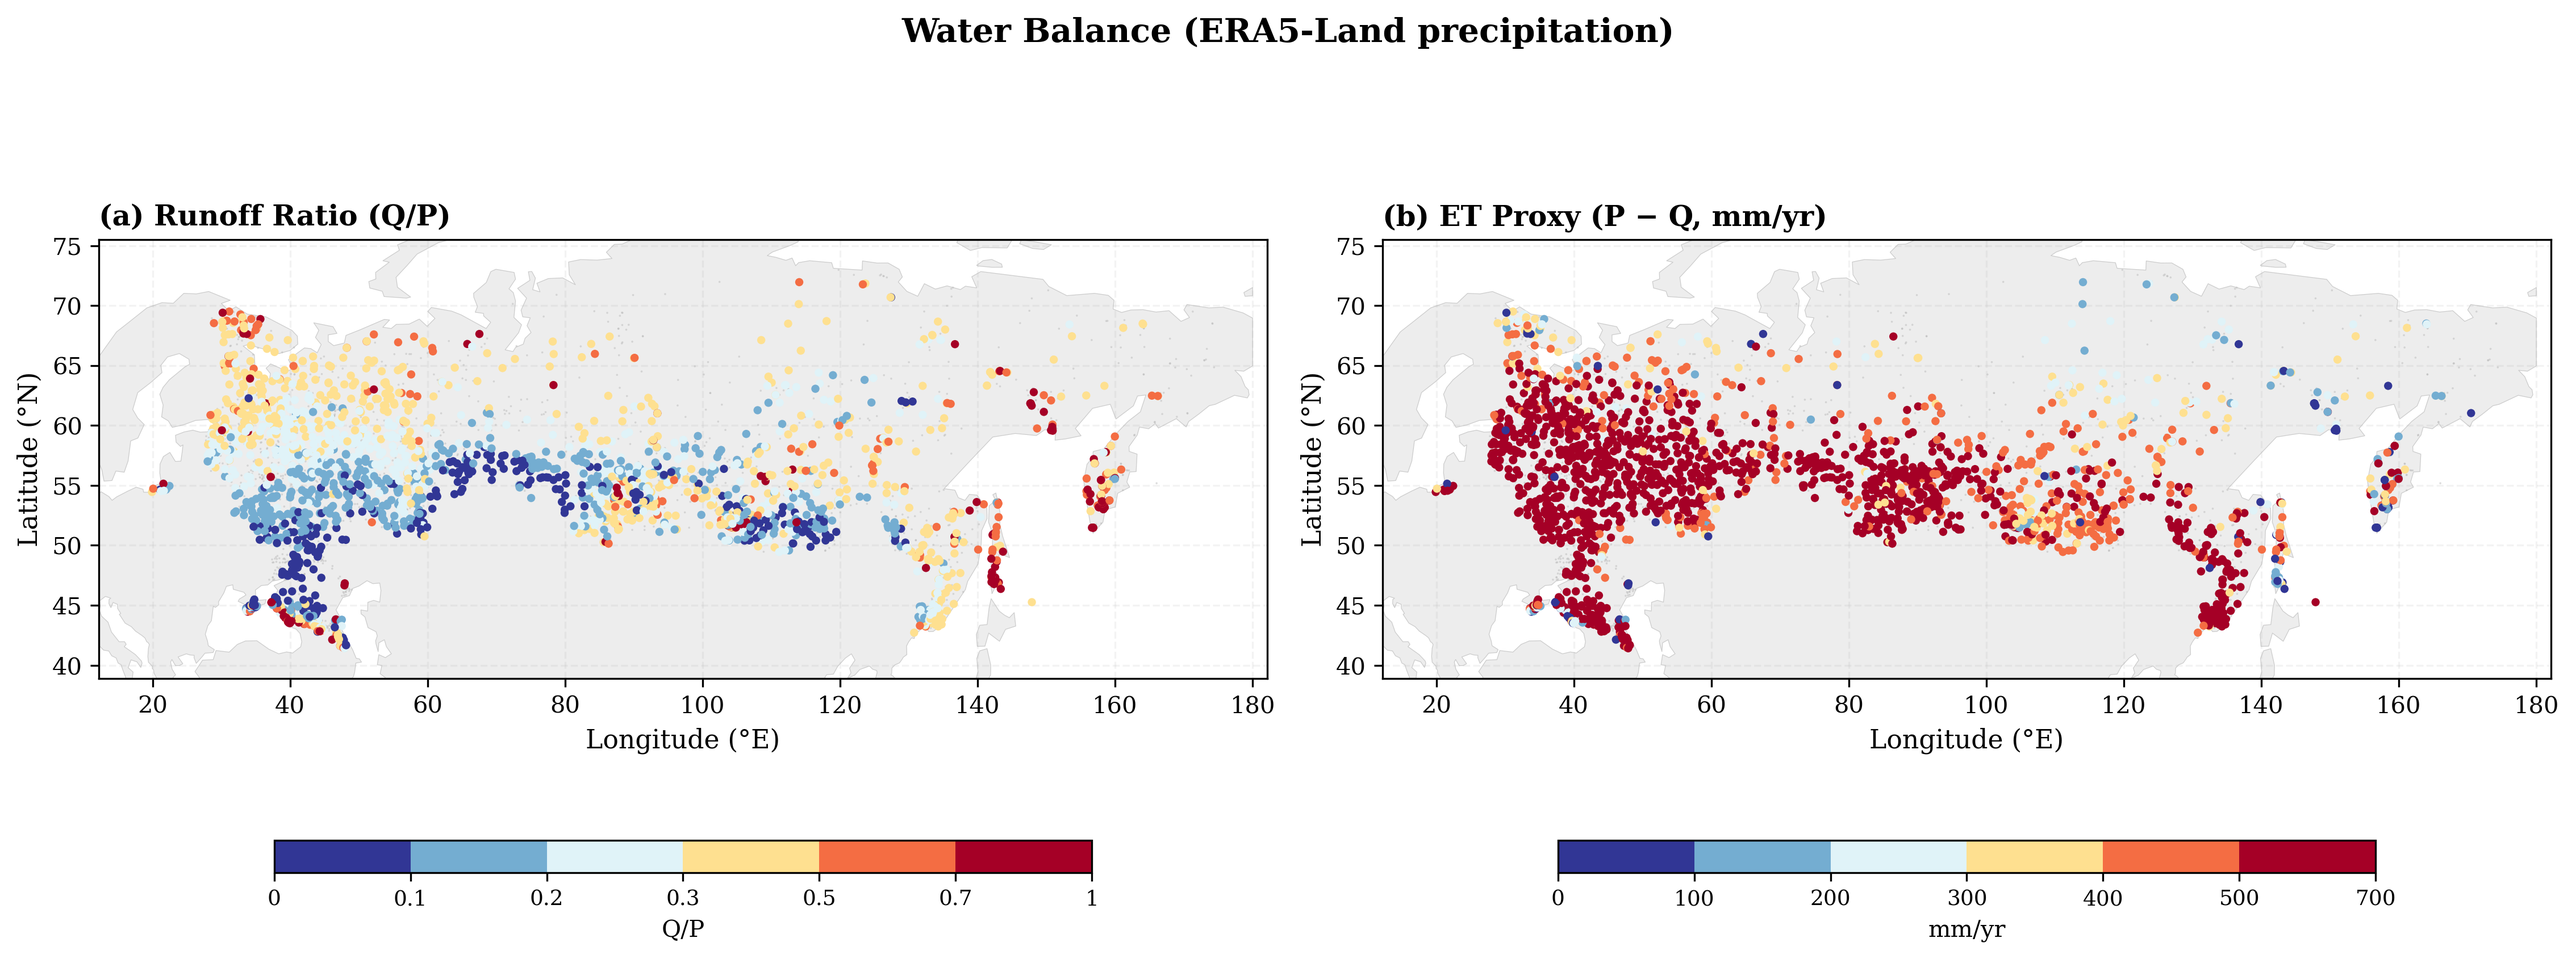
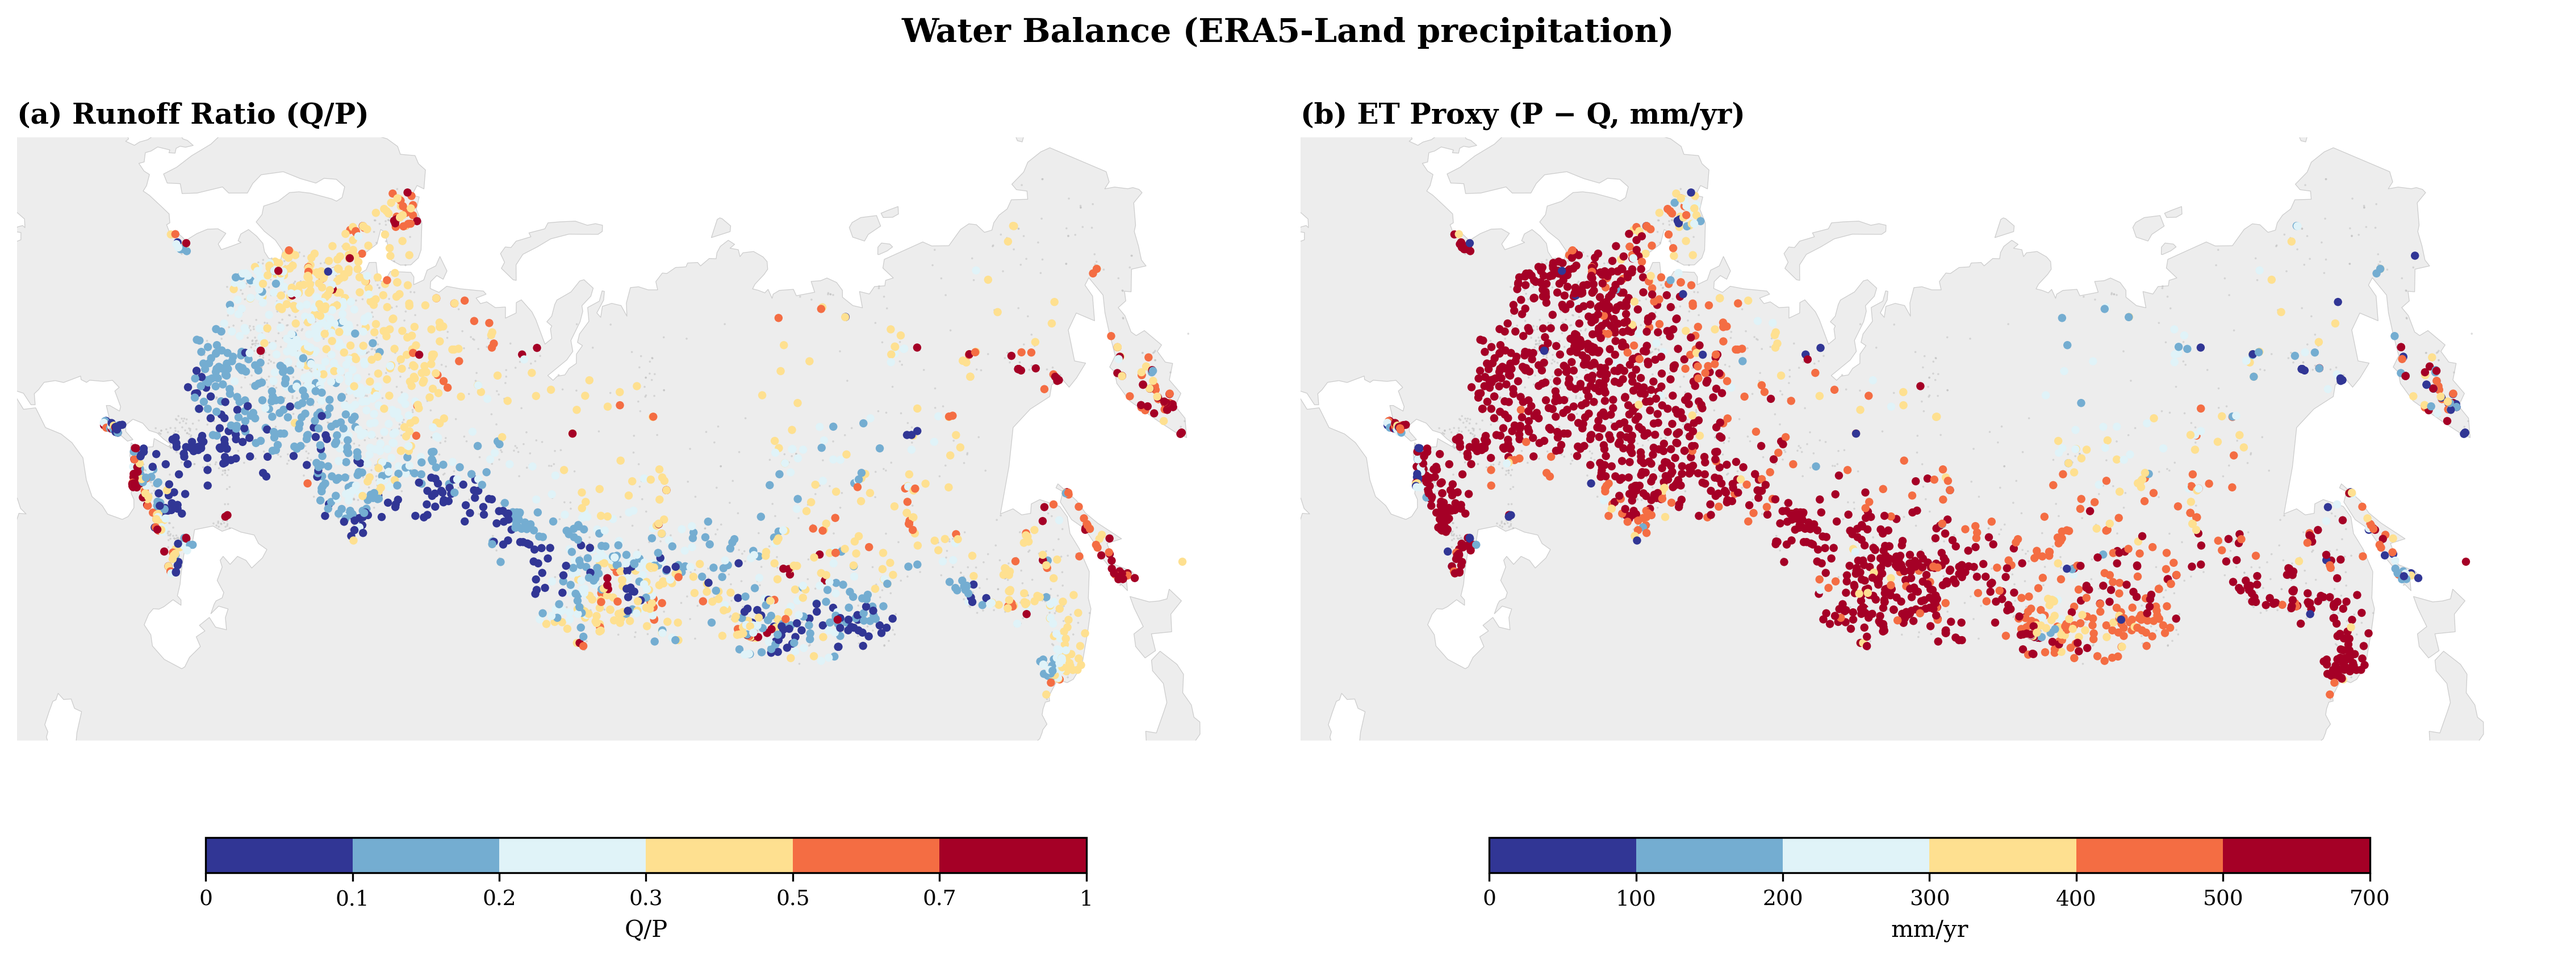
feat: reproject all paper maps to Albers Equal-Area Conic
Switch from unprojected lon/lat (cos(55°) aspect hack) to proper
Albers Equal-Area Conic projection via Cartopy for all manuscript
map figures. Parallels 46.4°N/71.8°N per reviewer suggestion.

Resolves HydroInformaticsRu/camels_ru#2

Changes:
- paper_maps.py: add get_russia_projection(), data-driven extent
- Notebooks 00, 02, 03: use projected GeoAxes with transform
- Add cartopy dependency, regeneration script
- Regenerate figures 1, 4, 6, 7, 8

diff --git a/src/plots/paper_maps.py b/src/plots/paper_maps.py
@@ -1,14 +1,11 @@
-"""Border-free plotting for ESSD Paper 1 figures.
+"""Projected plotting for ESSD Paper 1 figures.
 
-Lightweight spatial plotting using raw geographic coordinates (lon/lat)
-with latitude-corrected aspect ratio. No Cartopy, no basemap dependency.
+Spatial plotting using Albers Equal-Area Conic projection (Cartopy)
+optimised for the Russian territory.
 
-Matches the pattern established in notebooks 00_DataDescription.py and
-01_HydroAtlasFinal.py:
-  - Plain matplotlib scatter on unprojected lon/lat
-  - Aspect correction: 1 / cos(55°) for Russia's center latitude
+  - Albers Equal-Area Conic: central_lon=100°E, parallels 46.4°N/71.8°N
   - Colorblind-safe Paul Tol palette
-  - Grid with alpha=0.15, linestyle="--"
+  - No political borders (uses Natural Earth landmass)
 
 Usage
 -----
@@ -22,6 +19,7 @@ from __future__ import annotations
 import math
 from typing import TYPE_CHECKING
 
+import cartopy.crs as ccrs
 import geopandas as gpd
 from matplotlib import cm
 from matplotlib.colors import BoundaryNorm
@@ -33,9 +31,7 @@ if TYPE_CHECKING:
     from matplotlib.axes import Axes
     from matplotlib.figure import Figure
 
-# Russia center latitude for aspect correction
-_CENTER_LAT = 55.0
-_ASPECT = 1.0 / np.cos(np.radians(_CENTER_LAT))
+_DATA_CRS = ccrs.PlateCarree()
 
 # Paul Tol bright palette (colorblind-safe, up to 7 distinct colors)
 PAUL_TOL_BRIGHT: list[str] = [
@@ -87,21 +83,28 @@ _MARKERS: list[str] = [
 ]
 
 
-def _apply_map_style(
-    ax: Axes,
-    xlim: tuple[float, float] | None = None,
-    ylim: tuple[float, float] | None = None,
-) -> None:
-    """Apply consistent map styling to an axis."""
-    ax.set_xlabel("Longitude (°E)", fontsize=11)
-    ax.set_ylabel("Latitude (°N)", fontsize=11)
-    ax.tick_params(labelsize=10)
-    ax.set_aspect(_ASPECT)
-    ax.grid(alpha=0.15, linestyle="--")
-    if xlim is not None:
-        ax.set_xlim(xlim)
-    if ylim is not None:
-        ax.set_ylim(ylim)
+def get_russia_projection() -> ccrs.AlbersEqualArea:
+    """Return Albers Equal-Area Conic CRS for Russia."""
+    return ccrs.AlbersEqualArea(
+        central_longitude=100,
+        standard_parallels=(46.4, 71.8),
+        central_latitude=56,
+        false_easting=0,
+        false_northing=0,
+    )
+
+
+def _set_extent_from_data(ax: Axes, gdf: gpd.GeoDataFrame, pad: float = 0.08) -> None:
+    """Set axis extent from GeoDataFrame bounds in Albers coordinates."""
+    aea = get_russia_projection()
+    pts = aea.transform_points(_DATA_CRS, gdf.geometry.x.values, gdf.geometry.y.values)
+    valid = ~np.isnan(pts[:, 0])
+    xmin, xmax = pts[valid, 0].min(), pts[valid, 0].max()
+    ymin, ymax = pts[valid, 1].min(), pts[valid, 1].max()
+    xpad = (xmax - xmin) * pad
+    ypad = (ymax - ymin) * pad
+    ax.set_xlim(xmin - xpad, xmax + xpad)
+    ax.set_ylim(ymin - ypad, ymax + ypad)
 
 
 def _auto_bins(values: np.ndarray, n_bins: int = 6) -> np.ndarray:
@@ -164,9 +167,13 @@ def scatter_map(
     -------
     Axes
     """
-    # Draw background landmass if provided
+    # Set extent from data, then draw background clipped to it
+    ax.axis("off")
+    _set_extent_from_data(ax, gdf)
+
     if background_gdf is not None:
-        background_gdf.plot(
+        aea_proj4 = get_russia_projection().proj4_init
+        background_gdf.to_crs(aea_proj4).plot(
             ax=ax,
             color="#EDEDED",
             edgecolor="#CCCCCC",
@@ -193,6 +200,7 @@ def scatter_map(
             s=marker_size,
             edgecolors="none",
             zorder=3,
+            transform=_DATA_CRS,
         )
         if colorbar:
             cb = ax.figure.colorbar(  # type: ignore[union-attr]
@@ -229,21 +237,12 @@ def scatter_map(
             edgecolors="none",
             zorder=2,
             alpha=0.5,
+            transform=_DATA_CRS,
         )
 
     if title:
         ax.set_title(title, fontsize=12, fontweight="bold", loc="left")
 
-    # Set axis limits from data extent with buffer
-    all_x = gdf.geometry.x
-    all_y = gdf.geometry.y
-    x_buf = (all_x.max() - all_x.min()) * 0.05
-    y_buf = (all_y.max() - all_y.min()) * 0.08
-    _apply_map_style(
-        ax,
-        xlim=(all_x.min() - x_buf, all_x.max() + x_buf),
-        ylim=(all_y.min() - y_buf, all_y.max() + y_buf),
-    )
     return ax
 
 
@@ -305,12 +304,14 @@ def continuous_multiplot(
         raise ValueError("len(titles) must match len(metrics)")
 
     nrows = math.ceil(n / ncols)
+    aea = get_russia_projection()
     fig, axes = plt.subplots(
         nrows,
         ncols,
         figsize=(panel_size[0] * ncols, panel_size[1] * nrows),
         squeeze=False,
         constrained_layout=True,
+        subplot_kw={"projection": aea},
     )
 
     bin_intervals = bin_intervals or {}
@@ -421,6 +422,7 @@ def categorical_map(
             alpha=0.7,
             edgecolors="none",
             zorder=3,
+            transform=_DATA_CRS,
         )
 
         label = f"{cat} (n={len(subset)})" if show_counts else str(cat)
@@ -453,5 +455,6 @@ def categorical_map(
     if title:
         ax.set_title(title, fontsize=10, fontweight="bold", loc="left")
 
-    _apply_map_style(ax)
+    ax.axis("off")
+    _set_extent_from_data(ax, gdf)
     return ax

diff --git a/notebooks/00_DataDescription.py b/notebooks/00_DataDescription.py
@@ -23,7 +23,7 @@ import numpy as np
 import pandas as pd
 
 sys.path.append(str(Path(__file__).parent.parent))
-from src.static.hydro_atlas_analysis import (
+from src.static.hydro_atlas_analysis import (  # noqa: E402
     categorize_catchment_size,
     get_size_categories,
 )
@@ -238,17 +238,30 @@ print(f"Gauges with levels:    {len(lvl_df)} (hydropower: {lvl_df['is_hydropower
 # FIGURE 1 — Gauge network & catchment sizes  (Section 2)
 # ══════════════════════════════════════════════════════════════════════════════
 
-fig, (ax_map, ax_hist) = plt.subplots(
-    1,
-    2,
-    figsize=(14.0, 5.5),
-    gridspec_kw={"width_ratios": [2.2, 1]},
-    constrained_layout=True,
-)
+import cartopy.crs as ccrs  # noqa: E402, I001
+
+from src.plots.paper_maps import get_russia_projection  # noqa: E402
+
+_aea = get_russia_projection()
+_data_crs = ccrs.PlateCarree()
+
+fig = plt.figure(figsize=(14.0, 5.5), constrained_layout=True)
+gs = fig.add_gridspec(1, 2, width_ratios=[2.2, 1])
+ax_map = fig.add_subplot(gs[0, 0], projection=_aea)
+ax_hist = fig.add_subplot(gs[0, 1])
+
+ax_map.axis("off")
+
+# Set extent from gauge data
+from src.plots.paper_maps import _set_extent_from_data  # noqa: E402
+
+_set_extent_from_data(ax_map, gauge)
 
 # Natural Earth coastline (no political borders)
 _ne_land = gpd.read_file(GEOM_DIR / "ne_land_clipped.gpkg")
-_ne_land.plot(ax=ax_map, color="#EDEDED", edgecolor="#CCCCCC", linewidth=0.3, zorder=1)
+_ne_land.to_crs(_aea.proj4_init).plot(
+    ax=ax_map, color="#EDEDED", edgecolor="#CCCCCC", linewidth=0.3, zorder=1
+)
 
 # (a) Gauge locations by grade — ungraded first (background), then graded on top
 for grade in reversed(GRADE_ORDER):
@@ -269,6 +282,7 @@ for grade in reversed(GRADE_ORDER):
             label=f"{grade} (n={len(subset)})",
             edgecolors="none",
             zorder=zorder,
+            transform=_data_crs,
         )
     if len(hydro) > 0:
         ax_map.scatter(
@@ -281,18 +295,10 @@ for grade in reversed(GRADE_ORDER):
             edgecolors="black",
             linewidths=0.4,
             zorder=4,
+            transform=_data_crs,
         )
 
-ax_map.set_xlabel("Longitude (°E)", fontsize=12)
-ax_map.set_ylabel("Latitude (°N)", fontsize=12)
 ax_map.set_title("(a) Gauge network", fontsize=13, fontweight="bold", loc="left")
-ax_map.grid(alpha=0.15, linestyle="--")
-ax_map.set_aspect(1.0 / np.cos(np.radians(55.0)))  # lat/lon aspect correction
-# Clip to data extent
-x_buf = (gauge.geometry.x.max() - gauge.geometry.x.min()) * 0.05
-y_buf = (gauge.geometry.y.max() - gauge.geometry.y.min()) * 0.08
-ax_map.set_xlim(gauge.geometry.x.min() - x_buf, gauge.geometry.x.max() + x_buf)
-ax_map.set_ylim(gauge.geometry.y.min() - y_buf, gauge.geometry.y.max() + y_buf)
 # Reverse legend so Grade A appears first; add hydropower marker
 from matplotlib.lines import Line2D
 

diff --git a/notebooks/03_ForcingsFinal.py b/notebooks/03_ForcingsFinal.py
@@ -377,22 +377,36 @@ print(f"\nPlot GeoDataFrame: {len(plot_gdf)} gauges, {len(plot_gdf.columns)} col
 _ne_land = gpd.read_file(GEOM_DIR / "ne_land_clipped.gpkg")
 
 # -- Precip comparison: 3 panels with ONE shared colorbar --
-from matplotlib import cm as mpl_cm
-from matplotlib.colors import BoundaryNorm
+import cartopy.crs as ccrs  # noqa: E402
+from matplotlib import cm as mpl_cm  # noqa: E402
+from matplotlib.colors import BoundaryNorm  # noqa: E402
 
-_ASPECT = 1.0 / np.cos(np.radians(55.0))
+from src.plots.paper_maps import get_russia_projection  # noqa: E402
+
+_aea = get_russia_projection()
+_data_crs = ccrs.PlateCarree()
 _bin_edges = np.array([200, 400, 600, 800, 1000, 1200, 1400])
 _norm = BoundaryNorm(_bin_edges, len(_bin_edges) - 1)
 _cmap = mpl_cm.get_cmap("YlGnBu", len(_bin_edges) - 1)
 
-fig_precip, axes_p = plt.subplots(3, 1, figsize=(12, 12))
+fig_precip, axes_p = plt.subplots(3, 1, figsize=(12, 12), subplot_kw={"projection": _aea})
 
 for ax, metric, title in zip(
     axes_p,
     ["era5_mean_annual_mm", "mswep_mean_annual_mm", "gpcp_mean_annual_mm"],
     ["(a) ERA5-Land", "(b) MSWEP v2.8", "(c) GPCP v3.2"],
 ):
-    _ne_land.plot(ax=ax, color="#EDEDED", edgecolor="#CCCCCC", linewidth=0.3, zorder=1)
+    from src.plots.paper_maps import _set_extent_from_data  # noqa: E402
+
+    ax.axis("off")
+    _set_extent_from_data(ax, plot_gdf)
+    _ne_land.to_crs(_aea.proj4_init).plot(
+        ax=ax,
+        color="#EDEDED",
+        edgecolor="#CCCCCC",
+        linewidth=0.3,
+        zorder=1,
+    )
     valid = plot_gdf[plot_gdf[metric].notna()]
     sc = ax.scatter(
         valid.geometry.x,
@@ -403,17 +417,9 @@ for ax, metric, title in zip(
         s=8,
         edgecolors="none",
         zorder=3,
+        transform=_data_crs,
     )
     ax.set_title(title, fontsize=13, fontweight="bold", loc="left")
-    ax.set_xlabel("Longitude (°E)", fontsize=11)
-    ax.set_ylabel("Latitude (°N)", fontsize=11)
-    ax.tick_params(labelsize=10)
-    ax.set_aspect(_ASPECT)
-    ax.grid(alpha=0.15, linestyle="--")
-    x_buf = (valid.geometry.x.max() - valid.geometry.x.min()) * 0.05
-    y_buf = (valid.geometry.y.max() - valid.geometry.y.min()) * 0.08
-    ax.set_xlim(valid.geometry.x.min() - x_buf, valid.geometry.x.max() + x_buf)
-    ax.set_ylim(valid.geometry.y.min() - y_buf, valid.geometry.y.max() + y_buf)
 
 # Single shared colorbar — positioned explicitly below all panels
 fig_precip.subplots_adjust(hspace=0.35, bottom=0.08)

diff --git a/scripts/regenerate_paper_maps.py b/scripts/regenerate_paper_maps.py
@@ -1,0 +1,57 @@
+"""Regenerate only the map figures used in the ESSD manuscript.
+
+Runs the three notebooks (00, 02, 03) that produce spatial map figures.
+No heavy computation is repeated — this just re-renders existing data.
+
+Figures regenerated (maps only):
+  1  fig_gauge_network.png        — NB00
+  4  fig_precip_comparison.png    — NB03
+  6  fig_water_balance.png        — NB03
+  7  fig_hydro_signatures_1.png   — NB02
+  8  fig_hydro_signatures_2.png   — NB02
+
+Usage:
+    pixi run python scripts/regenerate_paper_maps.py
+"""
+
+from pathlib import Path
+import subprocess
+import sys
+
+NOTEBOOKS = [
+    "notebooks/00_DataDescription.py",
+    "notebooks/02_HydrologicalFinal.py",
+    "notebooks/03_ForcingsFinal.py",
+]
+
+ROOT = Path(__file__).parent.parent
+
+
+def main() -> None:
+    """Run each notebook sequentially."""
+    failed = []
+    for nb in NOTEBOOKS:
+        path = ROOT / nb
+        print(f"\n{'=' * 60}")
+        print(f"Running {nb} ...")
+        print(f"{'=' * 60}")
+        result = subprocess.run(
+            [sys.executable, str(path)],
+            cwd=str(ROOT),
+        )
+        if result.returncode != 0:
+            print(f"  FAILED (exit {result.returncode})")
+            failed.append(nb)
+        else:
+            print("  OK")
+
+    print(f"\n{'=' * 60}")
+    if failed:
+        print(f"FAILED: {', '.join(failed)}")
+        sys.exit(1)
+    else:
+        print("All map figures regenerated successfully.")
+
+
+if __name__ == "__main__":
+    main()

diff --git a/notebooks/02_HydrologicalFinal.py b/notebooks/02_HydrologicalFinal.py
@@ -312,7 +312,7 @@ fig_hydro.suptitle(
 )
 fig_hydro.tight_layout()
 fig_hydro.savefig(IMAGE_DIR / "fig_regime_hydrographs.png", dpi=300, bbox_inches="tight")
-plt.show()
+plt.close()
 print(f"  Saved {IMAGE_DIR / 'fig_regime_hydrographs.png'}")
 
 # =============================================================================
@@ -323,7 +323,10 @@ print("Plotting regime spatial map...")
 
 category_order = sorted(gauge_hydro["hydro_cluster"].unique(), key=_cluster_sort_key)
 
-fig_map, ax_map = plt.subplots(figsize=(14, 7))
+from src.plots.paper_maps import get_russia_projection  # noqa: E402
+
+_aea = get_russia_projection()
+fig_map, ax_map = plt.subplots(figsize=(14, 7), subplot_kw={"projection": _aea})
 categorical_map(
     gauge_hydro,
     ax_map,
@@ -338,7 +341,7 @@ categorical_map(
 )
 fig_map.tight_layout()
 fig_map.savefig(IMAGE_DIR / "fig_regime_map.png", dpi=300, bbox_inches="tight")
-plt.show()
+plt.close()
 print(f"  Saved {IMAGE_DIR / 'fig_regime_map.png'}")
 
 # =============================================================================
